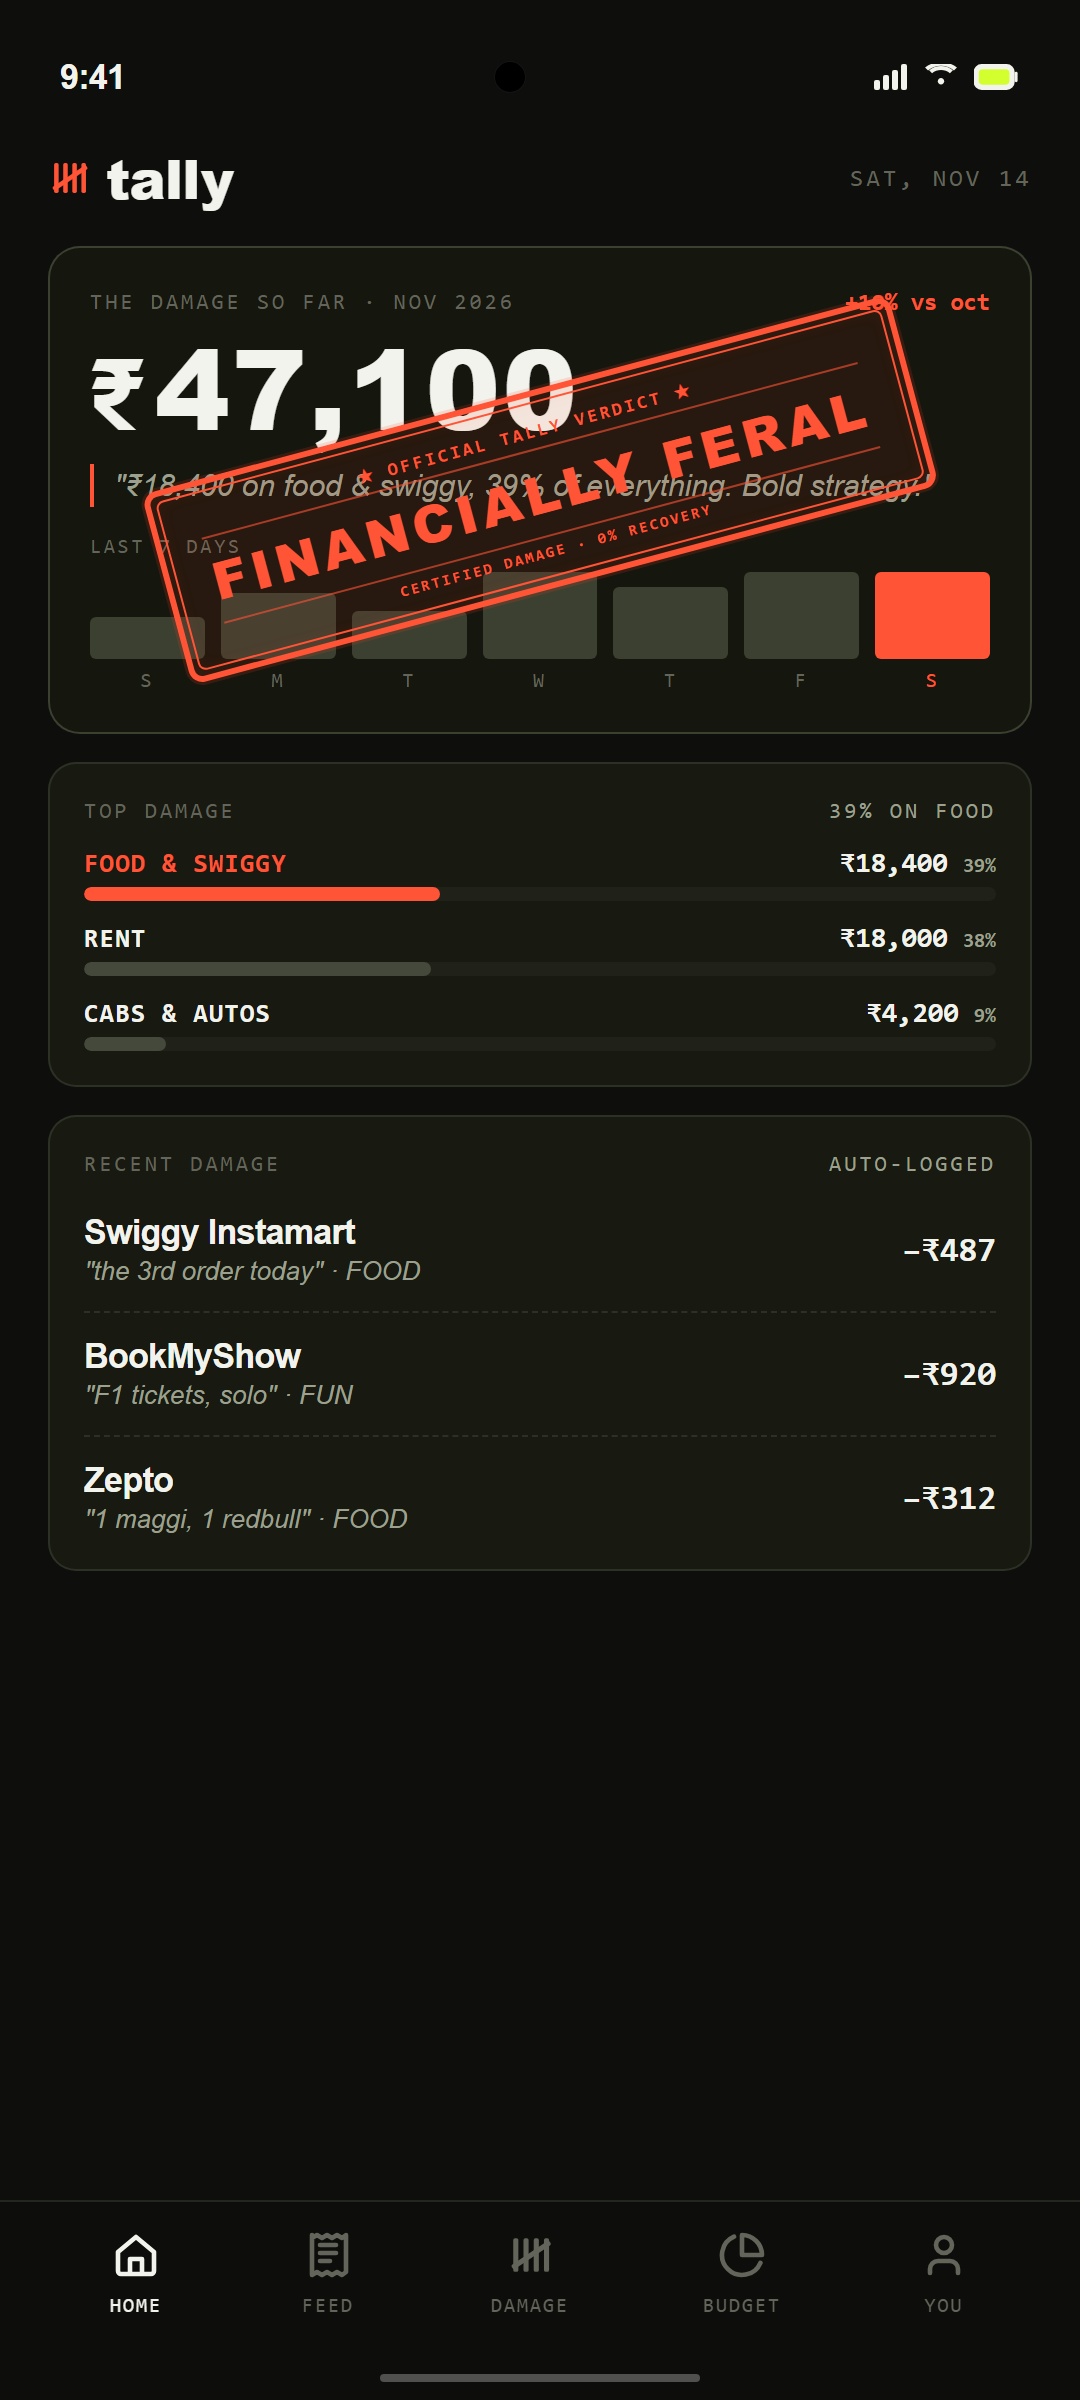
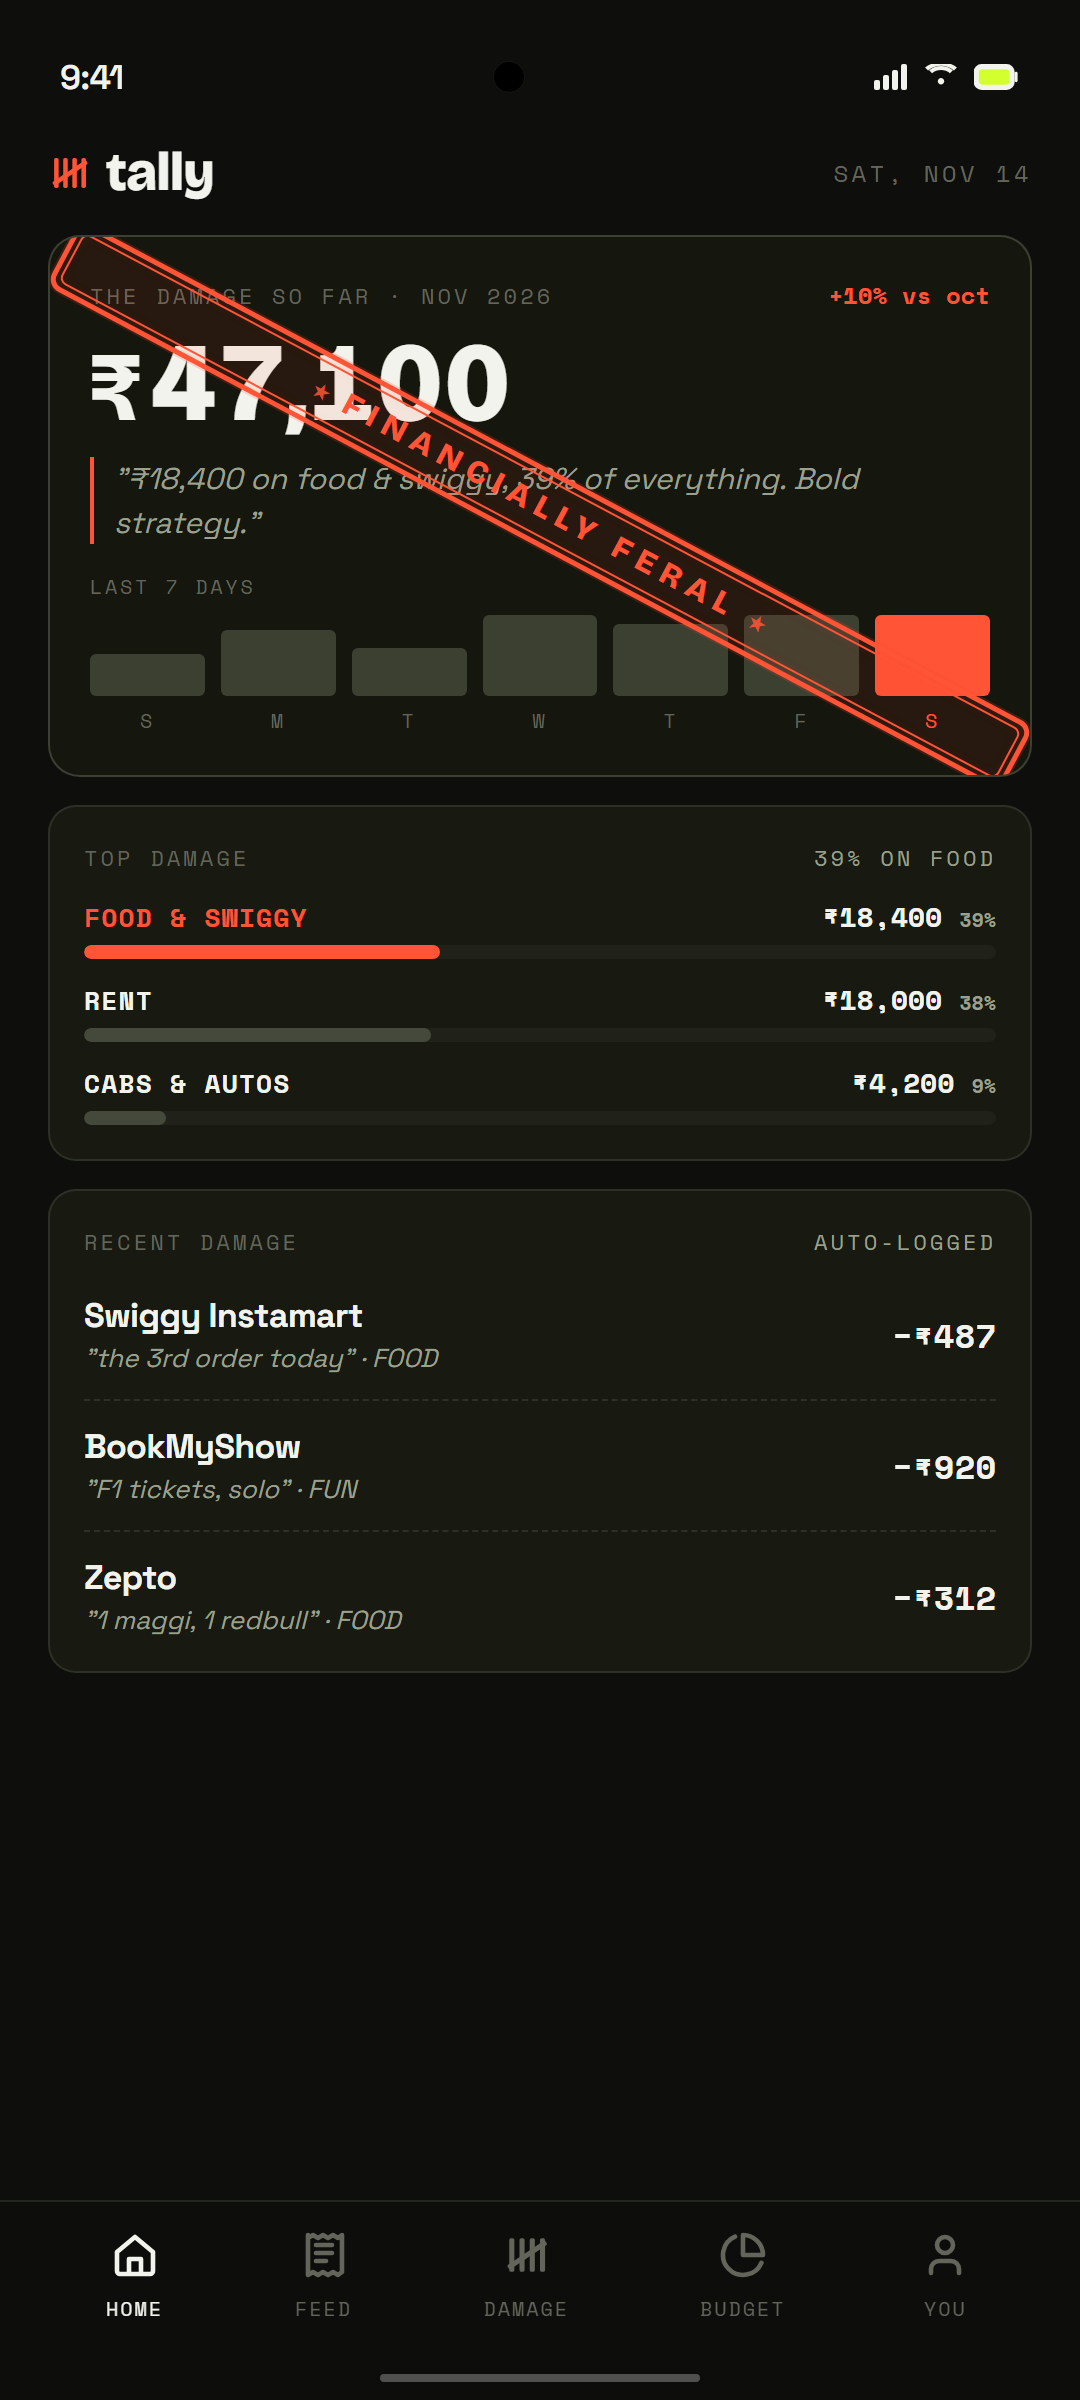
feat(stamp): rotate clockwise across diagonal corners, resize text, remove footer

diff --git a/src/tally/screens/HomeScreen.js b/src/tally/screens/HomeScreen.js
@@ -62,8 +62,8 @@ function FeralStampOverlay({ accent }) {
       style={{
         position: 'absolute',
         top: 0,
-        left: -10,
-        right: -10,
+        left: -20,
+        right: -20,
         bottom: 0,
         alignItems: 'center',
         justifyContent: 'center',
@@ -72,21 +72,22 @@ function FeralStampOverlay({ accent }) {
         transform: [
           { translateY: stampY },
           { scale: stampScale },
-          { rotate: '-16deg' },
+          { rotate: '28deg' },
         ],
       }}
     >
-      {/* Authentic Double-Lined Rubber Ink Stamp */}
+      {/* Authentic Diagonal Corner-to-Corner Rubber Stamp */}
       <View
         style={{
-          borderWidth: 4,
+          width: 380,
+          borderWidth: 3.5,
           borderColor: stampInk,
           borderRadius: 8,
           padding: 3,
           backgroundColor: 'rgba(255, 68, 37, 0.08)',
           shadowColor: '#000',
           shadowOffset: { width: 0, height: 6 },
-          shadowOpacity: 0.5,
+          shadowOpacity: 0.45,
           shadowRadius: 10,
           elevation: 10,
         }}
@@ -96,31 +97,19 @@ function FeralStampOverlay({ accent }) {
             borderWidth: 1.5,
             borderColor: stampInk,
             borderRadius: 5,
-            paddingVertical: 6,
+            paddingVertical: 5,
             paddingHorizontal: 16,
+            flexDirection: 'row',
             alignItems: 'center',
+            justifyContent: 'center',
+            gap: 8,
           }}
         >
-          {/* Top Stamp Header */}
-          <Text
-            style={{
-              fontFamily: FONTS.monoBold,
-              fontSize: 8.5,
-              color: stampInk,
-              letterSpacing: 2,
-              textTransform: 'uppercase',
-            }}
-          >
-            ★ OFFICIAL TALLY VERDICT ★
-          </Text>
-
-          <View style={{ width: '100%', height: 1, backgroundColor: stampInk, opacity: 0.5, marginVertical: 3 }} />
-
-          {/* Main Stamp Headline */}
+          <Text style={{ color: stampInk, fontSize: 10, opacity: 0.85 }}>★</Text>
           <Text
             style={{
               fontFamily: FONTS.display,
-              fontSize: 22,
+              fontSize: 15,
               color: stampInk,
               letterSpacing: 3.5,
               fontWeight: '900',
@@ -129,21 +118,7 @@ function FeralStampOverlay({ accent }) {
           >
             FINANCIALLY FERAL
           </Text>
-
-          <View style={{ width: '100%', height: 1, backgroundColor: stampInk, opacity: 0.5, marginVertical: 3 }} />
-
-          {/* Bottom Stamp Footer */}
-          <Text
-            style={{
-              fontFamily: FONTS.monoBold,
-              fontSize: 7.5,
-              color: stampInk,
-              letterSpacing: 1.5,
-              textTransform: 'uppercase',
-            }}
-          >
-            CERTIFIED DAMAGE · 0% RECOVERY
-          </Text>
+          <Text style={{ color: stampInk, fontSize: 10, opacity: 0.85 }}>★</Text>
         </View>
       </View>
     </Animated.View>

diff --git a/scripts/generate_screenshots.py b/scripts/generate_screenshots.py
@@ -396,57 +396,43 @@ def build_screen_dashboard():
   position: absolute;
   top: 50%;
   left: 50%;
-  transform: translate(-50%, -50%) rotate(-15deg);
-  border: 6px solid var(--red);
+  transform: translate(-50%, -50%) rotate(28deg);
+  width: 1080px;
+  border: 5px solid var(--red);
   border-radius: 14px;
-  padding: 5px;
+  padding: 4px;
   background: rgba(255, 68, 37, 0.08);
   pointer-events: none;
   z-index: 10;
   display: flex;
   align-items: center;
   justify-content: center;
-  box-shadow: 0 0 0 3px rgba(255, 68, 37, 0.15), inset 0 0 20px rgba(255, 68, 37, 0.1);
+  box-shadow: 0 0 0 2px rgba(255, 68, 37, 0.18), inset 0 0 16px rgba(255, 68, 37, 0.1);
 }}
 .stamp-feral-inner {{
-  border: 2.5px solid var(--red);
-  border-radius: 8px;
-  padding: 14px 34px;
-  display: flex;
-  flex-direction: column;
-  align-items: center;
-  gap: 6px;
-}}
-.stamp-feral-tag {{
-  font-family: var(--mono);
-  font-size: 18px;
-  font-weight: 700;
-  letter-spacing: 3px;
-  color: var(--red);
-  text-transform: uppercase;
-}}
-.stamp-feral-rule {{
   width: 100%;
-  height: 2px;
-  background: var(--red);
-  opacity: 0.6;
+  border: 2px solid var(--red);
+  border-radius: 8px;
+  padding: 10px 24px;
+  display: flex;
+  align-items: center;
+  justify-content: center;
+  gap: 16px;
+}}
+.stamp-feral-star {{
+  font-size: 22px;
+  color: var(--red);
+  opacity: 0.85;
 }}
 .stamp-feral-title {{
   font-family: var(--display);
-  font-size: 52px;
+  font-size: 32px;
   font-weight: 900;
-  letter-spacing: 5px;
+  letter-spacing: 8px;
   color: var(--red);
   text-transform: uppercase;
   white-space: nowrap;
-}}
-.stamp-feral-sub {{
-  font-family: var(--mono);
-  font-size: 15px;
-  font-weight: 700;
-  letter-spacing: 2.5px;
-  color: var(--red);
-  text-transform: uppercase;
+  line-height: 1.0;
 }}
 </style>
 </head>
@@ -465,11 +451,9 @@ def build_screen_dashboard():
     <div class="card-hero" style="position:relative; overflow:hidden;">
       <div class="stamp-feral">
         <div class="stamp-feral-inner">
-          <div class="stamp-feral-tag">★ OFFICIAL TALLY VERDICT ★</div>
-          <div class="stamp-feral-rule"></div>
-          <div class="stamp-feral-title">FINANCIALLY FERAL</div>
-          <div class="stamp-feral-rule"></div>
-          <div class="stamp-feral-sub">CERTIFIED DAMAGE · 0% RECOVERY</div>
+          <span class="stamp-feral-star">★</span>
+          <span class="stamp-feral-title">FINANCIALLY FERAL</span>
+          <span class="stamp-feral-star">★</span>
         </div>
       </div>
       <div style="display:flex; justify-content:space-between; align-items:center;">
